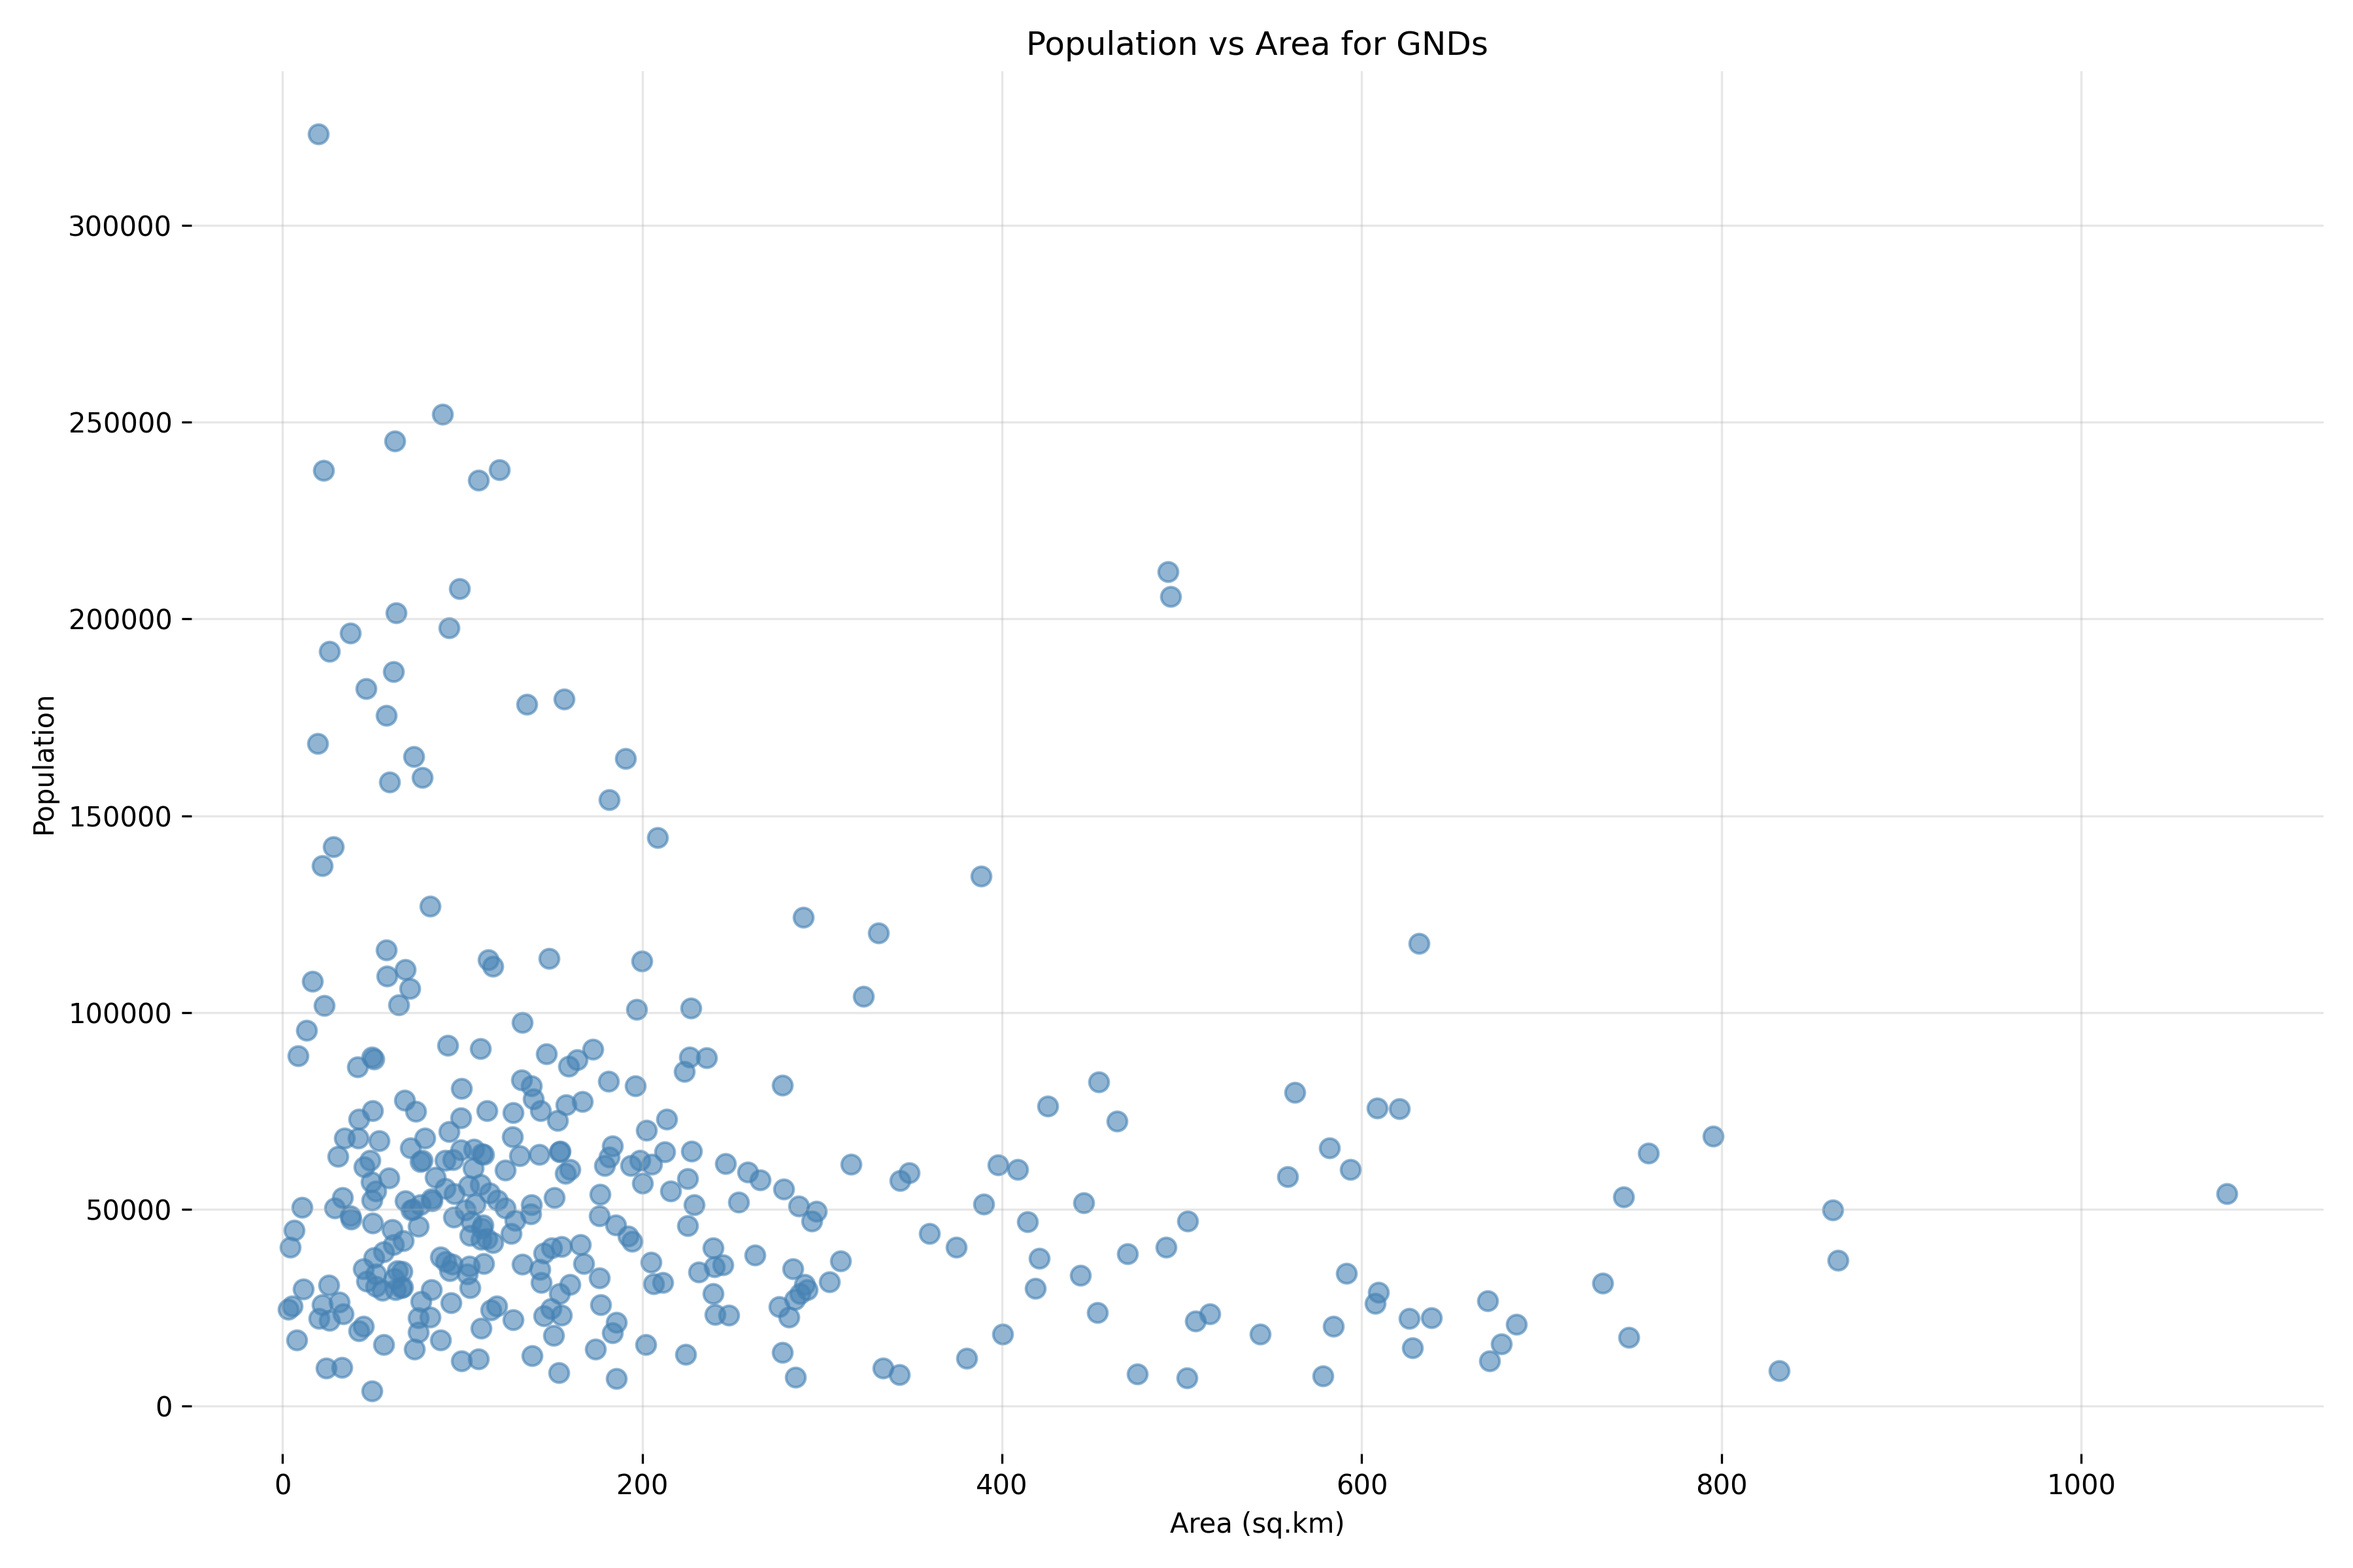
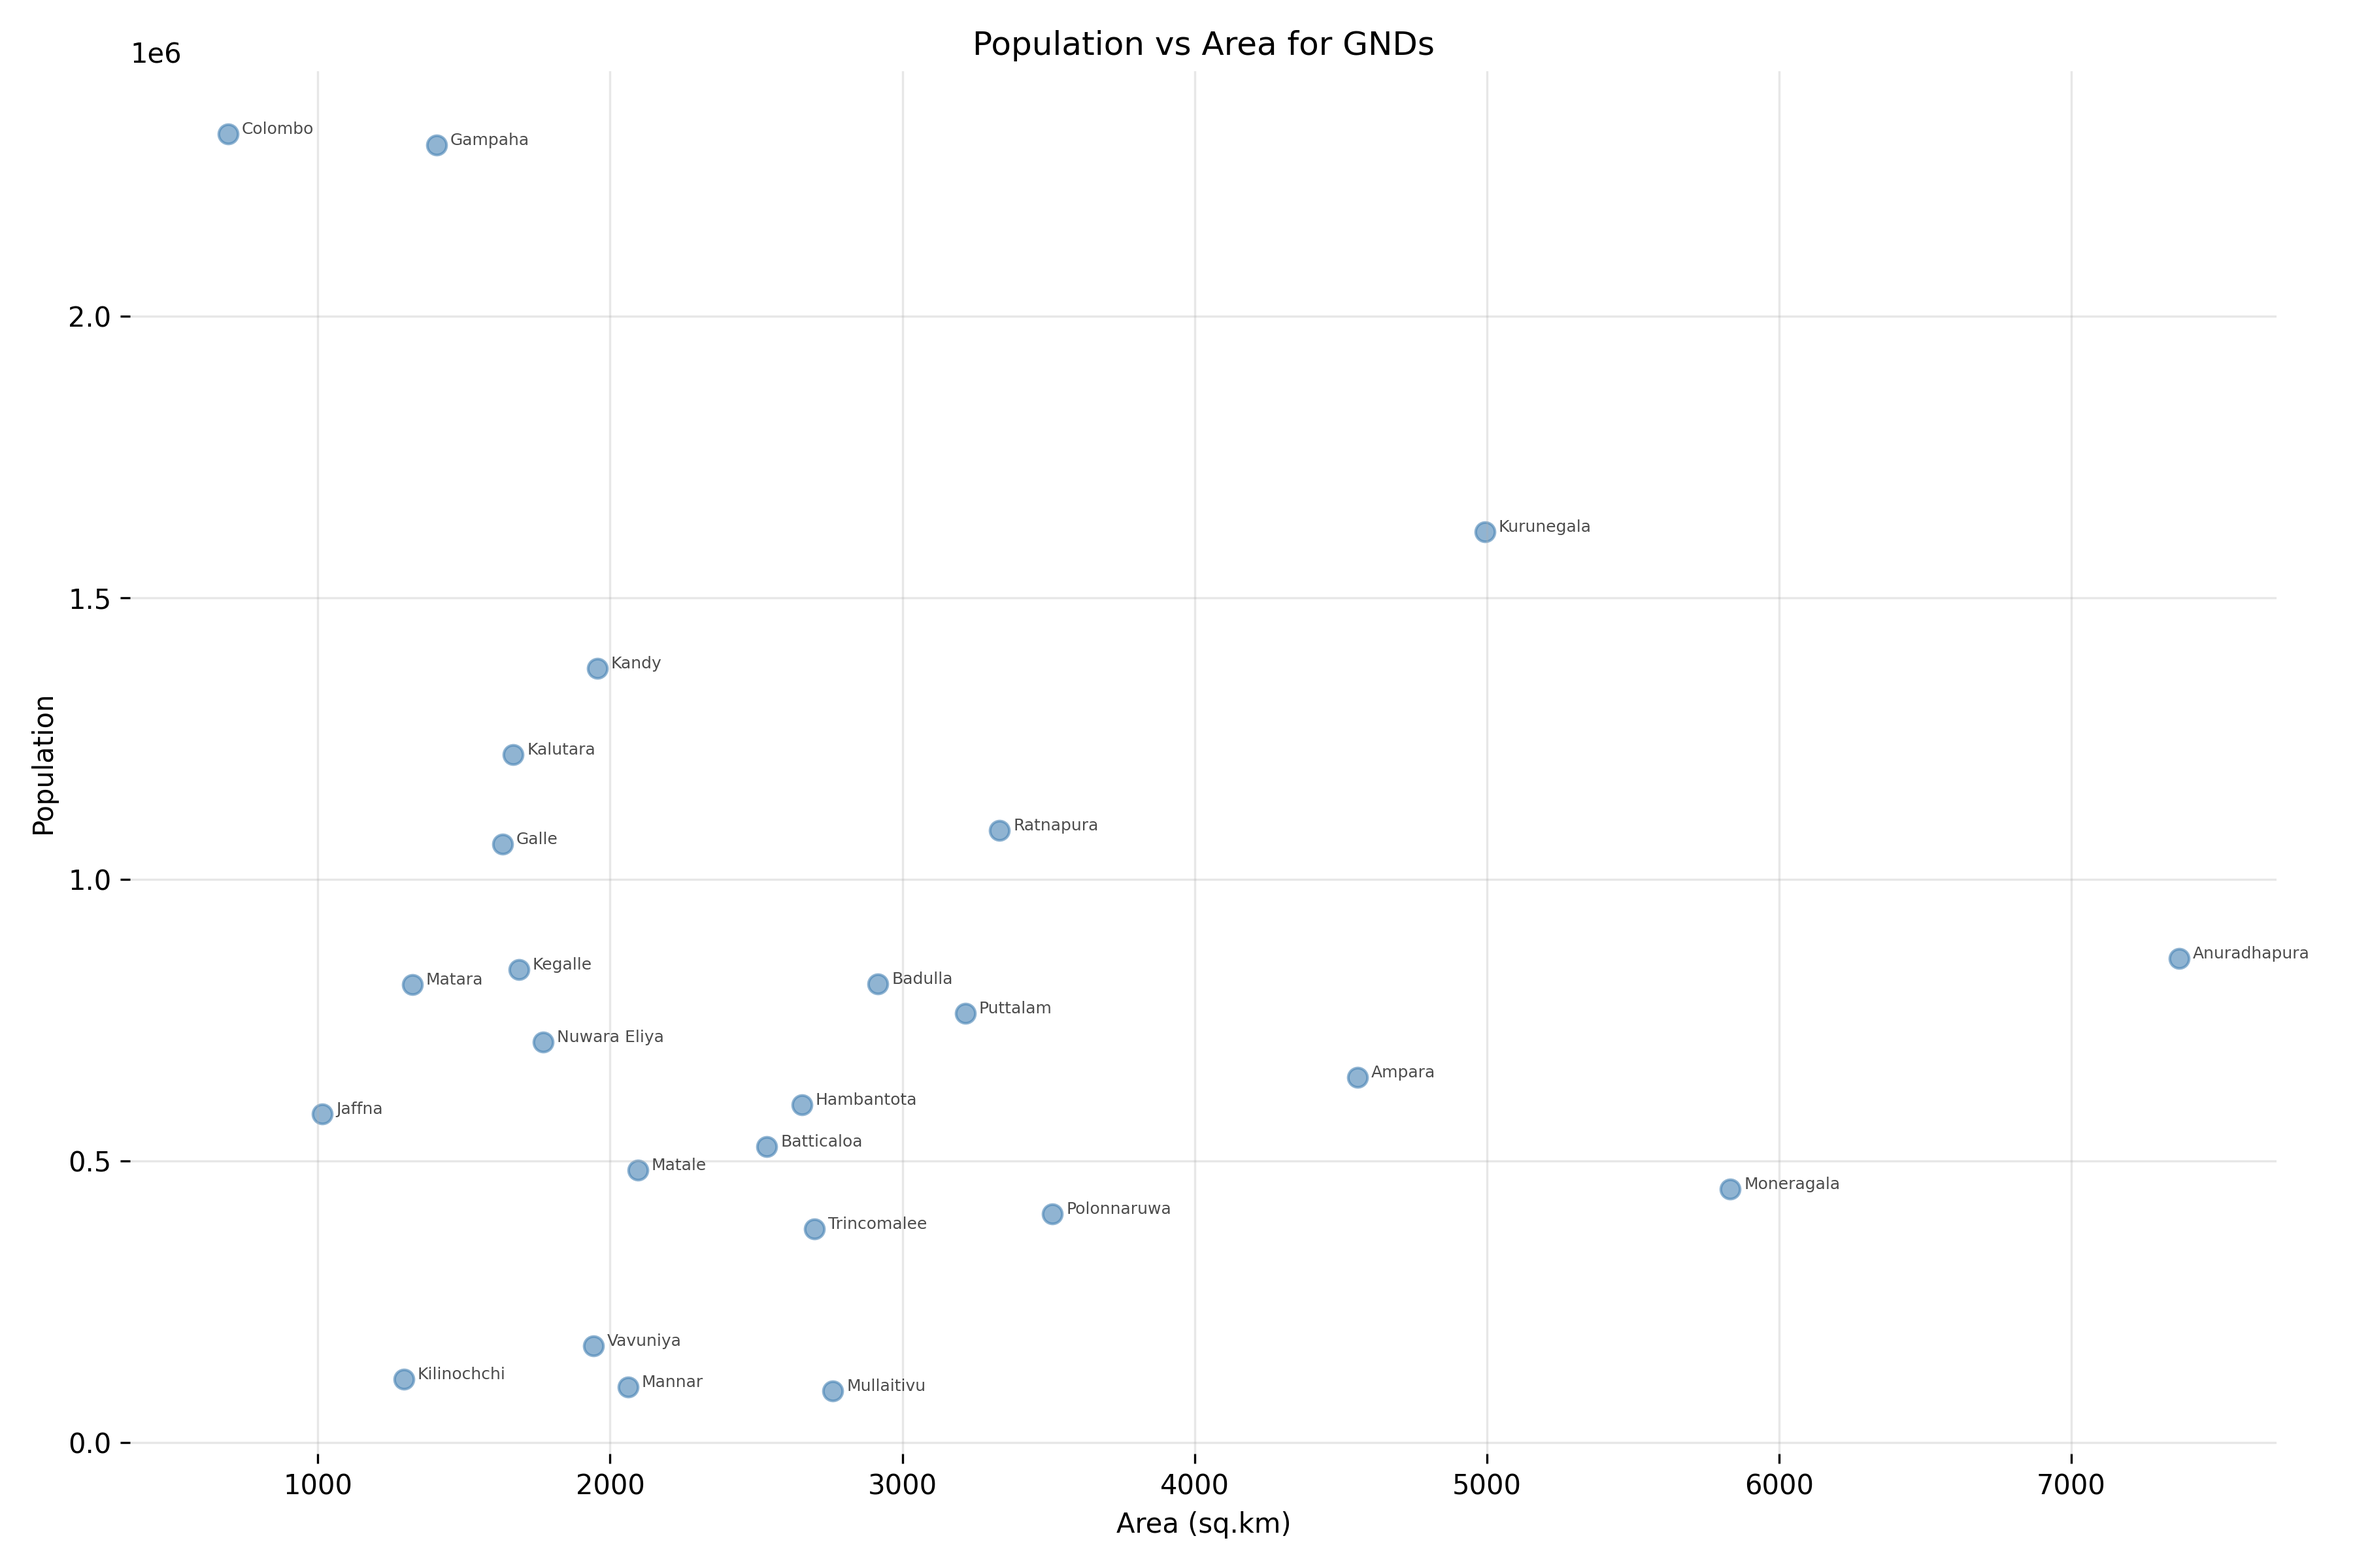
Add annotations to scatter plot and update entity type in main function

diff --git a/example_analyses/gnds/__main__.py b/example_analyses/gnds/__main__.py
@@ -9,6 +9,8 @@ from gig import Ent, EntType
 
 log = Log(os.path.basename(os.path.dirname(__file__)))
 
+ENT_TYPE = EntType.DISTRICT
+
 
 def draw_histogram(title, values, unit):
     plt.figure(figsize=(12, 6))
@@ -63,6 +65,17 @@ def draw_xy_plot(ents):
     plt.figure(figsize=(12, 8))
     plt.scatter(areas, populations, alpha=0.6, color="steelblue", s=50)
 
+    # Annotate each point with entity name
+    for ent in ents:
+        plt.annotate(
+            ent.name,
+            xy=(ent.area, ent.population),
+            xytext=(5, 0),
+            textcoords="offset points",
+            fontsize=6,
+            alpha=0.7,
+        )
+
     plt.xlabel("Area (sq.km)")
     plt.ylabel("Population")
     plt.title("Population vs Area for GNDs")
@@ -88,7 +101,7 @@ def main():
 
     ents = [
         ent
-        for ent in Ent.list_from_type(EntType.DSD)
+        for ent in Ent.list_from_type(ENT_TYPE)
         if ent.population and ent.area
     ]
     n_ents = len(ents)
